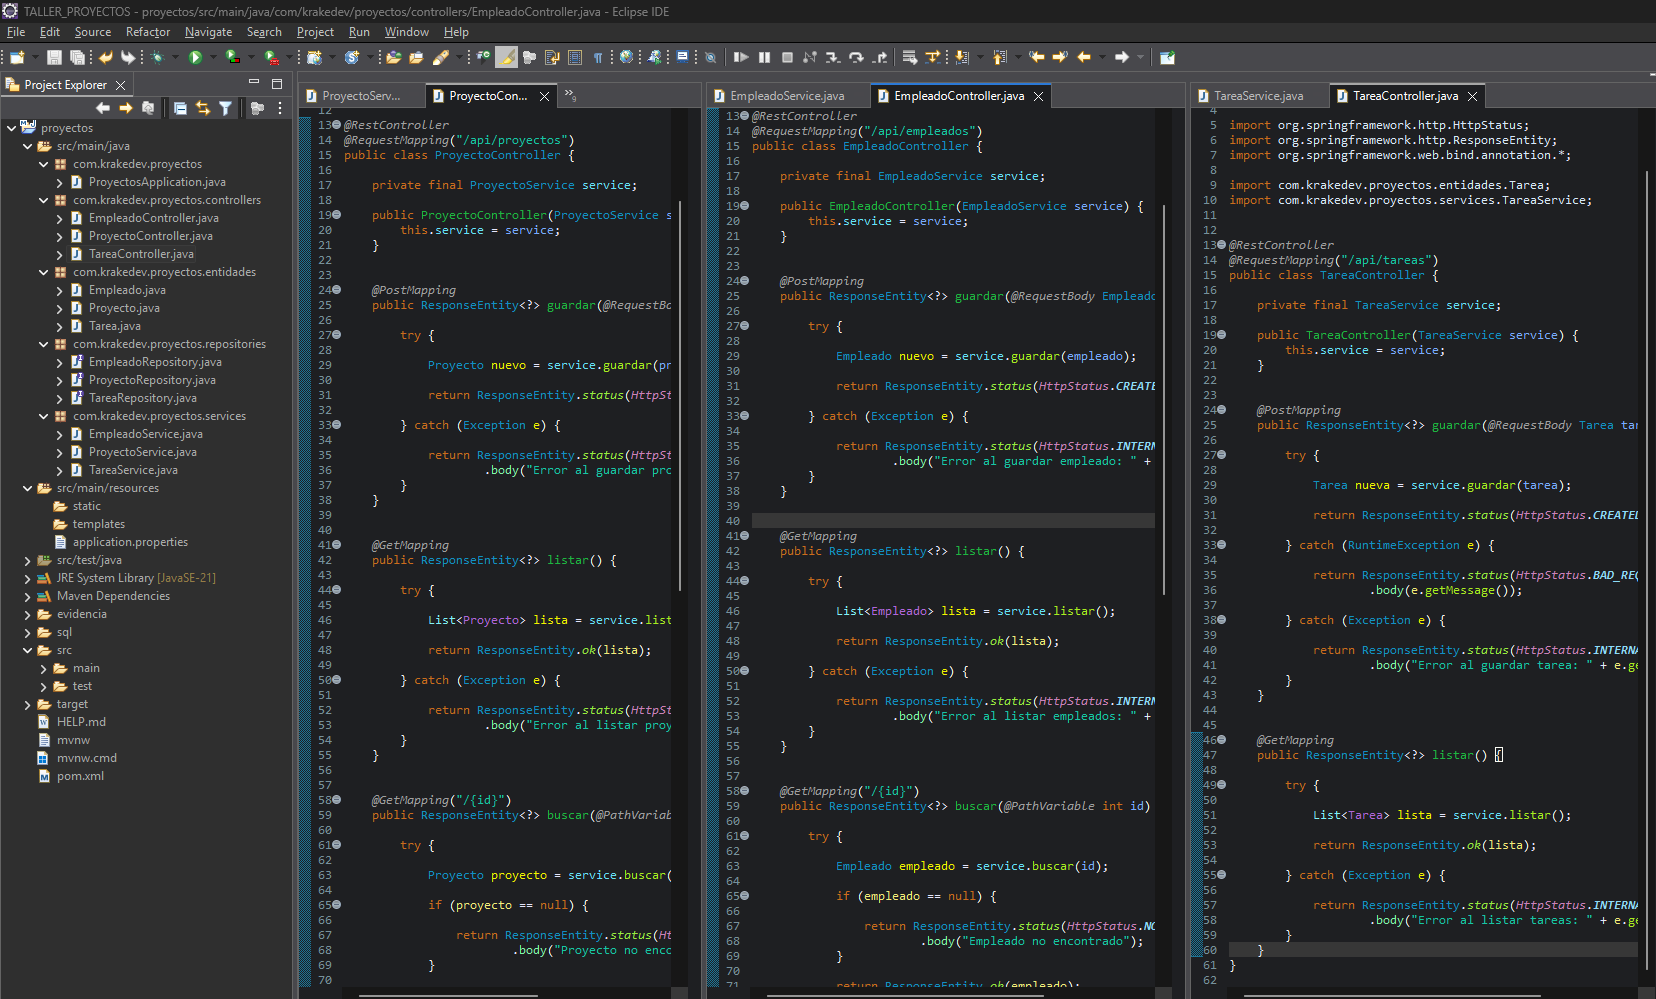
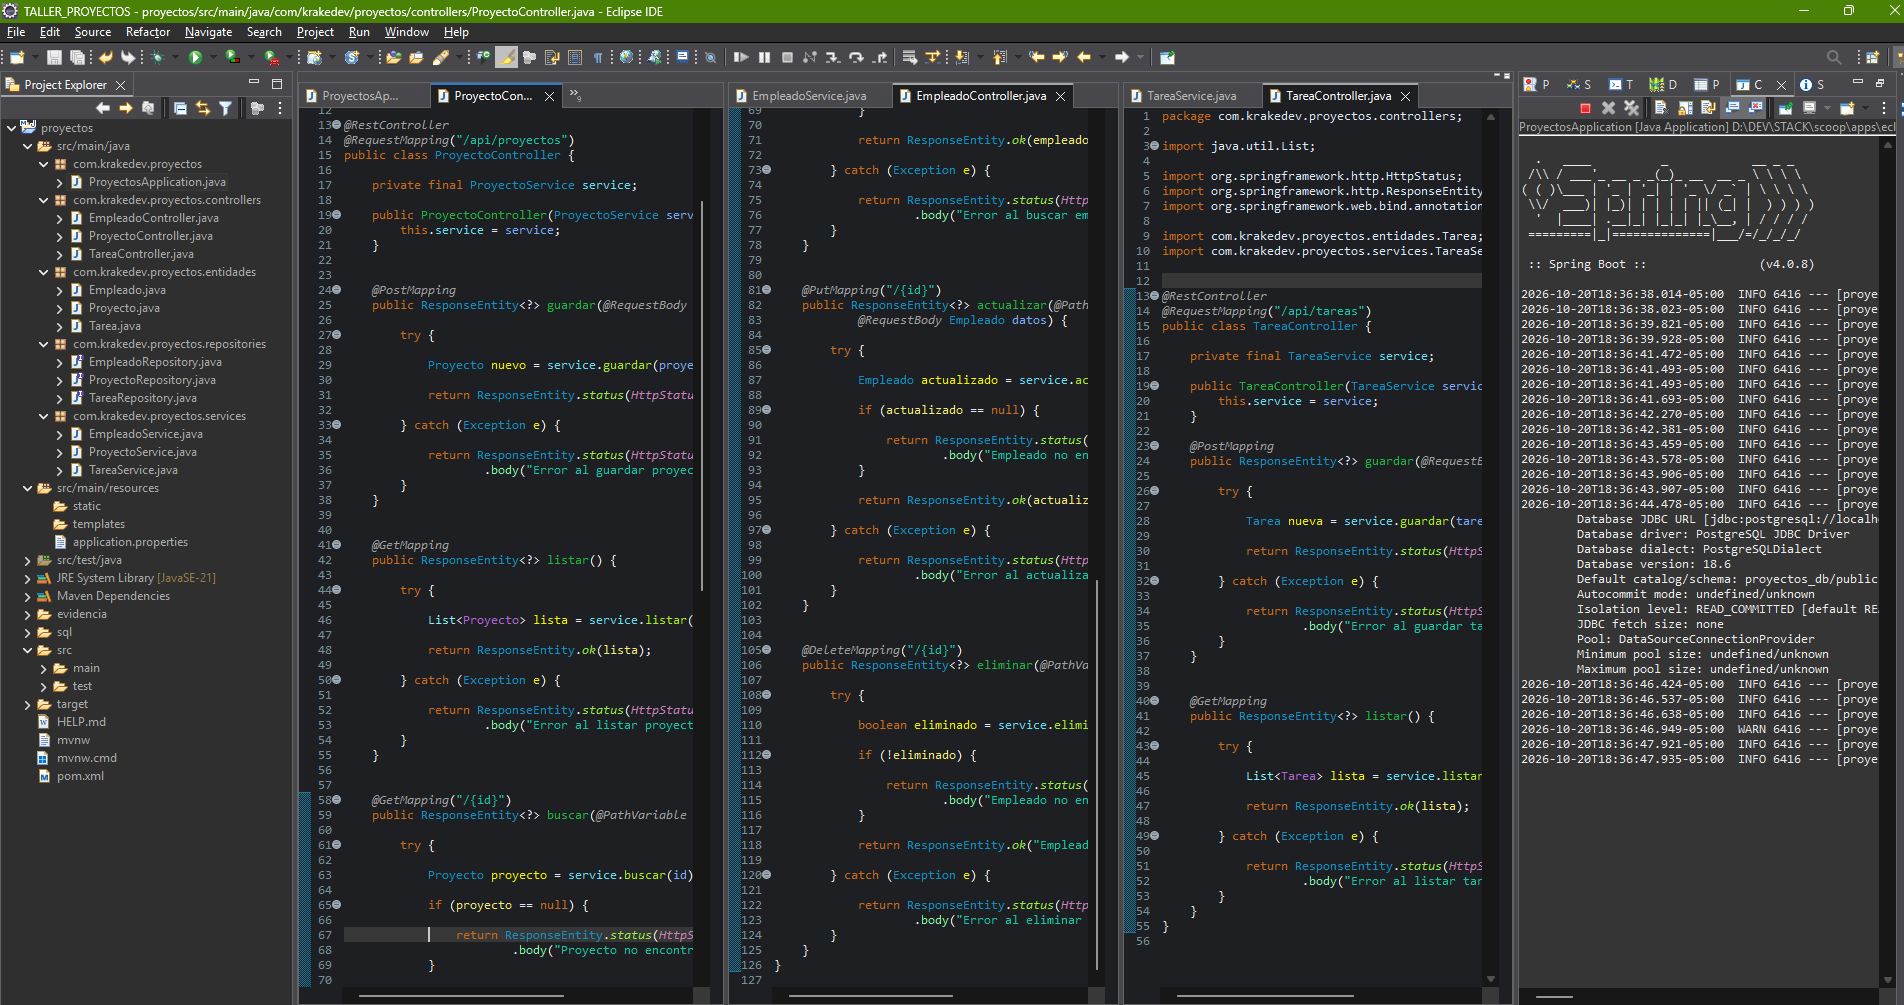
Pruebas en Postman

Changed region(s): [[0.0, 0.0, 1.0, 1.0]]

diff --git a/src/main/java/com/krakedev/proyectos/controllers/TareaController.java b/src/main/java/com/krakedev/proyectos/controllers/TareaController.java
@@ -20,7 +20,6 @@ public class TareaController {
         this.service = service;
     }
 
-    
     @PostMapping
     public ResponseEntity<?> guardar(@RequestBody Tarea tarea) {
 
@@ -29,11 +28,6 @@ public class TareaController {
             Tarea nueva = service.guardar(tarea);
 
             return ResponseEntity.status(HttpStatus.CREATED).body(nueva);
-
-        } catch (RuntimeException e) {
-
-            return ResponseEntity.status(HttpStatus.BAD_REQUEST)
-                    .body(e.getMessage());
 
         } catch (Exception e) {
 
